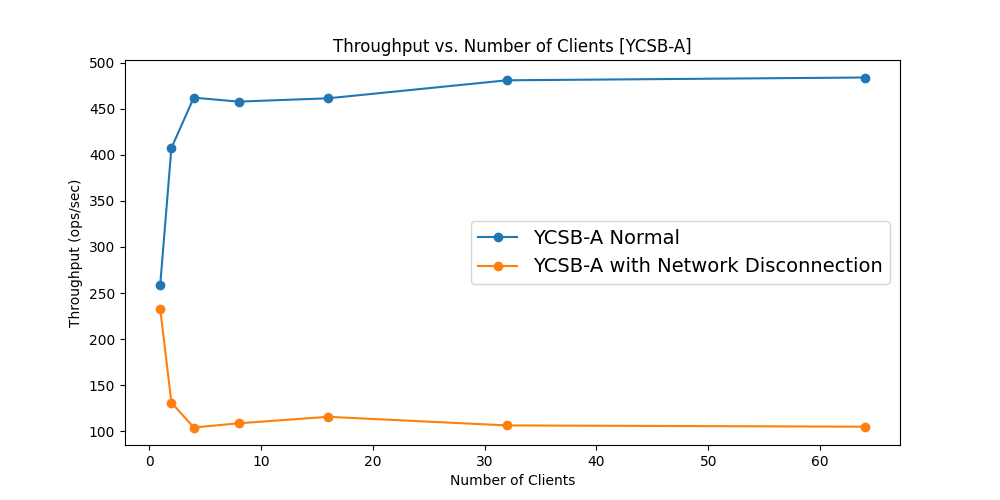
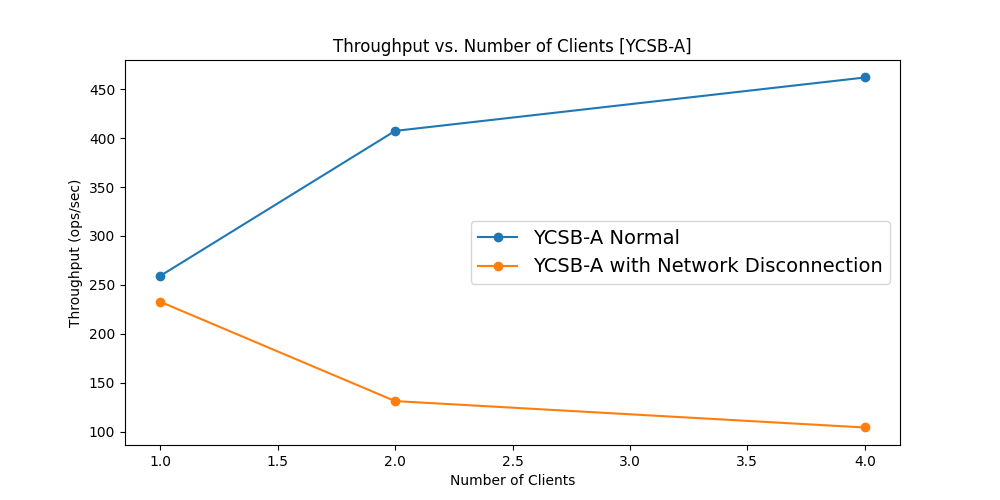
d

diff --git a/plot/plot.py b/plot/plot.py
@@ -4,13 +4,13 @@ import matplotlib.pyplot as plt
 fontSize = 14
 
 # Data points for YCSB-A
-x_a = [1, 2, 4, 8, 16, 32, 64]
-y_a= [259.17,407.36,461.94,457.64,461.21,480.75,483.78]
+x_a = [1, 2, 4]
+y_a= [259.17,407.36,461.94]
 
 
-x_a_d = [1, 2, 4, 8, 16, 32, 64]
+x_a_d = [1, 2, 4 ]
 
-y_a_d = [232.73,131.24,104.24,108.77,115.84,106.50,105.11]
+y_a_d = [232.73,131.24,104.24]
 
 
 
@@ -28,22 +28,18 @@ plt.savefig('/home/Jamiroq/Documents/GitHub/myRabia/plot/throughput_plot-A.png')
 plt.close()
 
 # Data points for YCSB-B
-x_b = [1, 2, 4, 8, 16, 32, 64]
+x_b = [1, 2, 4 ]
 
-y_b = [763.34,1484.16,2767.86,4613.38,4932.94,4972.38,4917.45]
-
-
+y_b = [763.34,1484.16,2767.86]
 
 
-x_b_d = [1, 2, 4, 8, 16, 32, 64]
-y_b_d= [749.08,1489.32,2446.26,1645.15,1725.82,1746.60,1856.93]
+
 
 
 
 # Creating the plot for YCSB-B
 plt.figure(figsize=(10, 5))
 plt.plot(x_b, y_b, marker='o', label='YCSB-B Normal')
-plt.plot(x_b_d, y_b_d, marker='o', label='YCSB-B with Network Disconnection')
 plt.title('Throughput vs. Number of Clients [YCSB-B]')
 plt.xlabel('Number of Clients')
 plt.ylabel('Throughput (ops/sec)')
@@ -53,17 +49,13 @@ plt.savefig('/home/Jamiroq/Documents/GitHub/myRabia/plot/throughput_plot-B.png')
 plt.close()
 
 # Data points for YCSB-C
-x_c = [1, 2, 4, 8, 16, 32, 64]
-y_c = [944.33,1863.22,3653.79,7282.32,13235.30,19410.69,28014.23]
-
-x_c_d = [1, 2, 4, 8, 16, 32, 64]
-y_c_d = [968.66,1822.50,3636.08,6972.39,13143.13,19396.28,27571.92]
+x_c = [1, 2, 4 ]
+y_c = [944.33,1863.22,3653.79]
 
 
 # Creating the plot for YCSB-C
 plt.figure(figsize=(10, 5))
 plt.plot(x_c, y_c, marker='o', label='YCSB-C Normal')
-plt.plot(x_c_d, y_c_d, marker='o', label='YCSB-C with Network Disconnection')
 plt.title('Throughput vs. Number of Clients [YCSB-C]')
 plt.xlabel('Number of Clients')
 plt.ylabel('Throughput (ops/sec)')
@@ -74,27 +66,17 @@ plt.close()
 
 
 
-x_a = [1, 2, 4, 8, 16, 32, 64]
-y_a= [259.17,407.36,461.94,457.64,461.21,480.75,483.78]
-x_a_geo = [1, 2, 4, 8, 16, 32, 64]
-y_a_geo = [1.04,1.40,1.72,1.88,2.68,3.42,5.65]
-x_b = [1, 2, 4, 8, 16, 32, 64]
-y_b = [763.34,1484.16,2767.86,4613.38,4932.94,4972.38,4917.45]
-x_b_geo = [1, 2, 4, 8, 16, 32, 64]
-y_b_geo = [5.70,9.52,14.17,18.17,23.29,33.78,51.71]
-x_c = [1, 2, 4, 8, 16, 32, 64]
-y_c = [944.33,1863.22,3653.79,7282.32,13235.30,19410.69,28014.23]
-
-x_c_geo = [1, 2, 4, 8, 16, 32, 64]
-y_c_geo = [9.42,16.22,29.32,57.26,110.58,219.58,434.26]
+x_a = [1, 2, 4]
+y_a= [259.17,407.36,461.94]
+x_a_geo = [1, 2, 4]
+y_a_geo = [1.04,1.40,1.72]
 
 
 
 plt.figure(figsize=(10, 5))
 #plt.plot(x_a, y_a, marker='o', label='YCSB-A Normal')
+plt.plot(x_a, y_a, marker='o', label='YCSB-A Normal')
 plt.plot(x_a_geo, y_a_geo, marker='o', label='YCSB-A when Geo-Distributed')
-plt.plot(x_b_geo, y_b_geo, marker='o', label='YCSB-B when Geo-Distributed')
-plt.plot(x_c_geo, y_c_geo, marker='o', label='YCSB-C when Geo-Distributed')
 plt.title('Throughput vs. Number of Clients [YCSB-A,B,C]')
 plt.xlabel('Number of Clients')
 plt.ylabel('Throughput (ops/sec)')
@@ -102,59 +84,5 @@ plt.legend(fontsize=fontSize)
 plt.rcParams["font.size"] = fontSize
 plt.savefig('/home/Jamiroq/Documents/GitHub/myRabia/plot/throughput_plot-_geo.png')
 plt.close()
-
-
-x_b = [1, 2, 4, 8, 16, 32, 64]
-y_b = [763.34,1484.16,2767.86,4613.38,4932.94,4972.38,4917.45]
-x_b_geo = [1, 2, 4, 8, 16, 32, 64]
-y_b_geo = [5.70,9.52,14.17,18.17,23.29,33.78,51.71]
-
-plt.figure(figsize=(10, 5))
-#plt.plot(x_b, y_b, marker='o', label='YCSB-B Normal')
-plt.plot(x_b_geo, y_b_geo, marker='o', label='YCSB-B when Geo-Distributed')
-plt.title('Throughput vs. Number of Clients [YCSB-B]')
-plt.xlabel('Number of Clients')
-plt.ylabel('Throughput (ops/sec)')
-plt.legend(fontsize=fontSize)
-plt.rcParams["font.size"] = fontSize
-plt.savefig('/home/Jamiroq/Documents/GitHub/myRabia/plot/throughput_plot-B_geo.png')
-plt.close()
-
-
-x_c = [1, 2, 4, 8, 16, 32, 64]
-y_c = [944.33,1863.22,3653.79,7282.32,13235.30,19410.69,28014.23]
-
-x_c_geo = [1, 2, 4, 8, 16, 32, 64]
-y_c_geo = [9.42,16.22,29.32,57.26,110.58,219.58,434.26]
-
-plt.figure(figsize=(10, 5))
-#plt.plot(x_c, y_c, marker='o', label='YCSB-C Normal')
-plt.plot(x_c_geo, y_c_geo, marker='o', label='YCSB-C when Geo-Distributed')
-plt.title('Throughput vs. Number of Clients [YCSB-C]')
-plt.xlabel('Number of Clients')
-plt.ylabel('Throughput (ops/sec)')
-plt.legend(fontsize=fontSize)
-plt.rcParams["font.size"] = fontSize
-plt.savefig('/home/Jamiroq/Documents/GitHub/myRabia/plot/throughput_plot-C_geo.png')
-plt.close()
-
-
-
-
-x_o = [1, 2, 3, 4,5,6,7,8]
-y_o = [61695,112742,124189,145647,117635,126337, 120289, 109782]
-
-
-plt.figure(figsize=(10, 5))
-#plt.plot(x_c, y_c, marker='o', label='YCSB-C Normal')
-plt.plot(x_o, y_o, marker='o', label='YCSB-C when Geo-Distributed')
-plt.title('Throughput vs. Number of Clients [YCSB-C]')
-plt.xlabel('Number of Clients')
-plt.ylabel('Throughput (ops/sec)')
-plt.legend(fontsize=fontSize)
-plt.rcParams["font.size"] = fontSize
-plt.savefig('/home/Jamiroq/Documents/GitHub/myRabia/plot/throughput_plo_geo.png')
-plt.close()
-
 
 

diff --git a/replica/replica.go b/replica/replica.go
@@ -127,7 +127,7 @@ func main() {
 			value := TerminationValue{isNull: stateStruct.Value == 0, CommandData: stateStruct.CommandData, phase: 0, seq: seq}
 			//color.Green("reached consensus: ", value, "\n")
 			resolveTermination(value, *commandPointer)
-			//c.Println("SM in seq", seq, ":", StateMachine)
+			c.Println("SM in seq", seq, ":", StateMachine)
 			seq++
 			phaseSum += 0
 			// fmt.Println("null cnt:", nullCnt)
@@ -276,8 +276,6 @@ func resolveTermination(termination TerminationValue, ownProposal CommandData){
 
 	IP := strings.Split(termination.CommandData.ReplicaAddr, ":")[0]
 	if ownIP == IP  {
-		//c:= color.New(color.FgHiMagenta)
-		//c.Println("sending response to client: ", termination.CommandData.ClientAddr)
 		responceChannelMapMutex.Lock()
 		responseChannelMap[termination.CommandData.ClientAddr] <- ResponseToClient{Value: 0, ClientAddr: termination.CommandData.ClientAddr}
 		responceChannelMapMutex.Unlock()

diff --git a/replica/setup.go b/replica/setup.go
@@ -15,7 +15,7 @@ func setConnectionWithOtherReplicas(IPLists []string) []net.Conn {
 		if IP[0]!= 'N'  && IP!= stringIP{
 			conn, err := net.Dial("tcp", IP+":8080")
 			if err != nil {
-				fmt.Printf("接続エラー  %d: %v\n", conn, err)
+				//fmt.Printf("接続エラー  %d: %v\n", conn, err)
 				continue
 			}
 			conns = append(conns, conn)

diff --git a/GClient/GClient.go b/GClient/GClient.go
@@ -7,7 +7,7 @@ import (
 )
 
 var StateMachine map[string]int = make(map[string]int)
-var IPList = []string{"52.64.108.149", "52.65.112.127", "52.62.115.28","3.106.167.230","13.54.181.252"}
+var IPList = []string{"52.64.108.149", "52.65.112.127", "52.62.115.28"}
 var replicaNum = 3
 
 type Report struct {

diff --git a/GClient/header.go b/GClient/header.go
@@ -33,8 +33,10 @@ type CommandTimestamp struct {
 	Timestamp int
 }
 
+
 type ResponseToClient struct {
-	Value int
+	Value      int
+	ClientAddr string
 }
 
 func init() {
